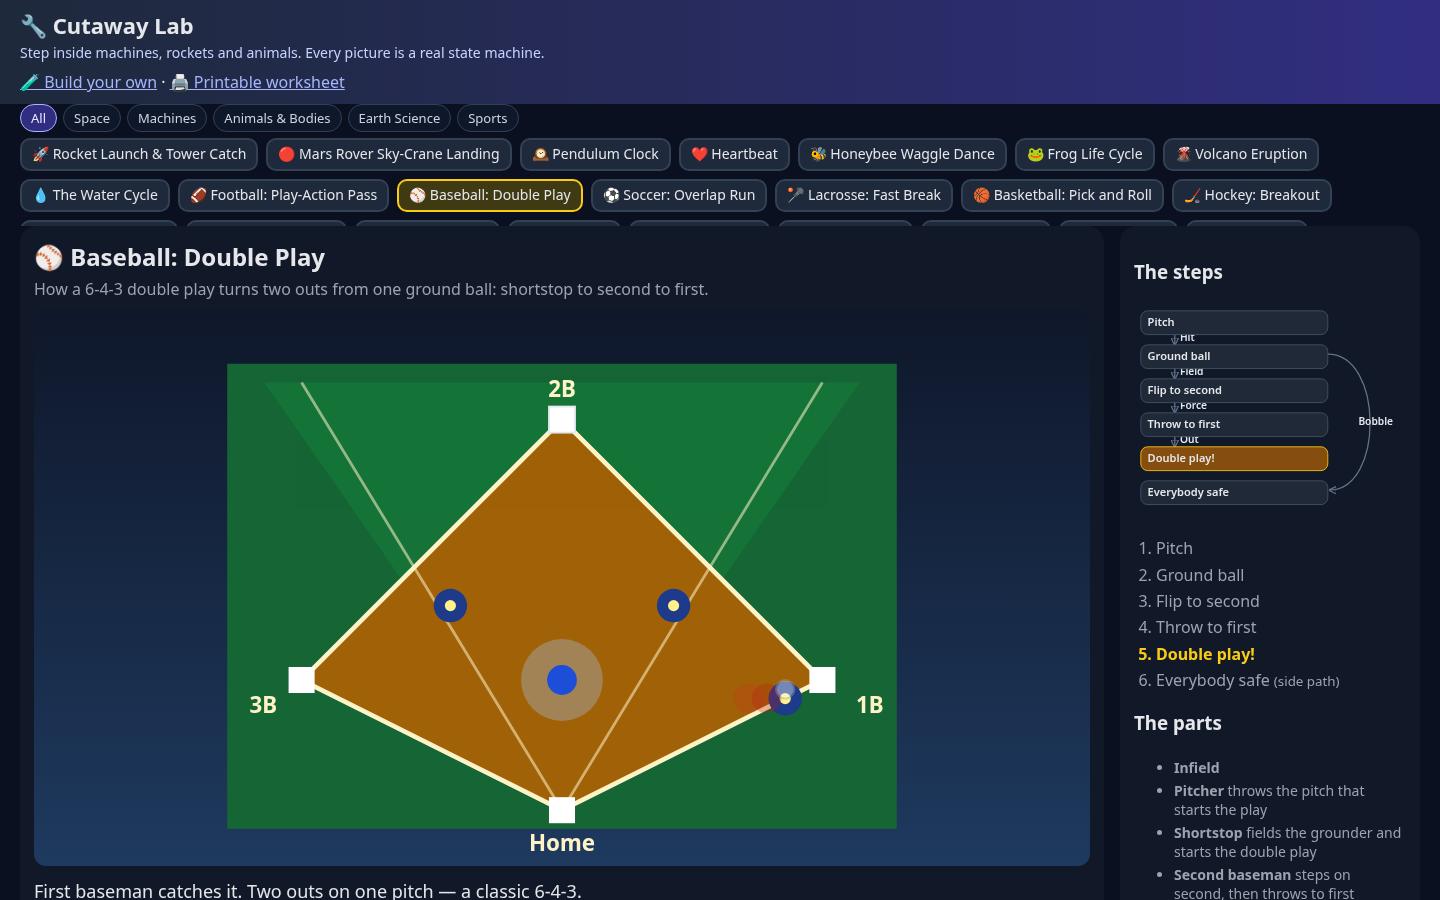
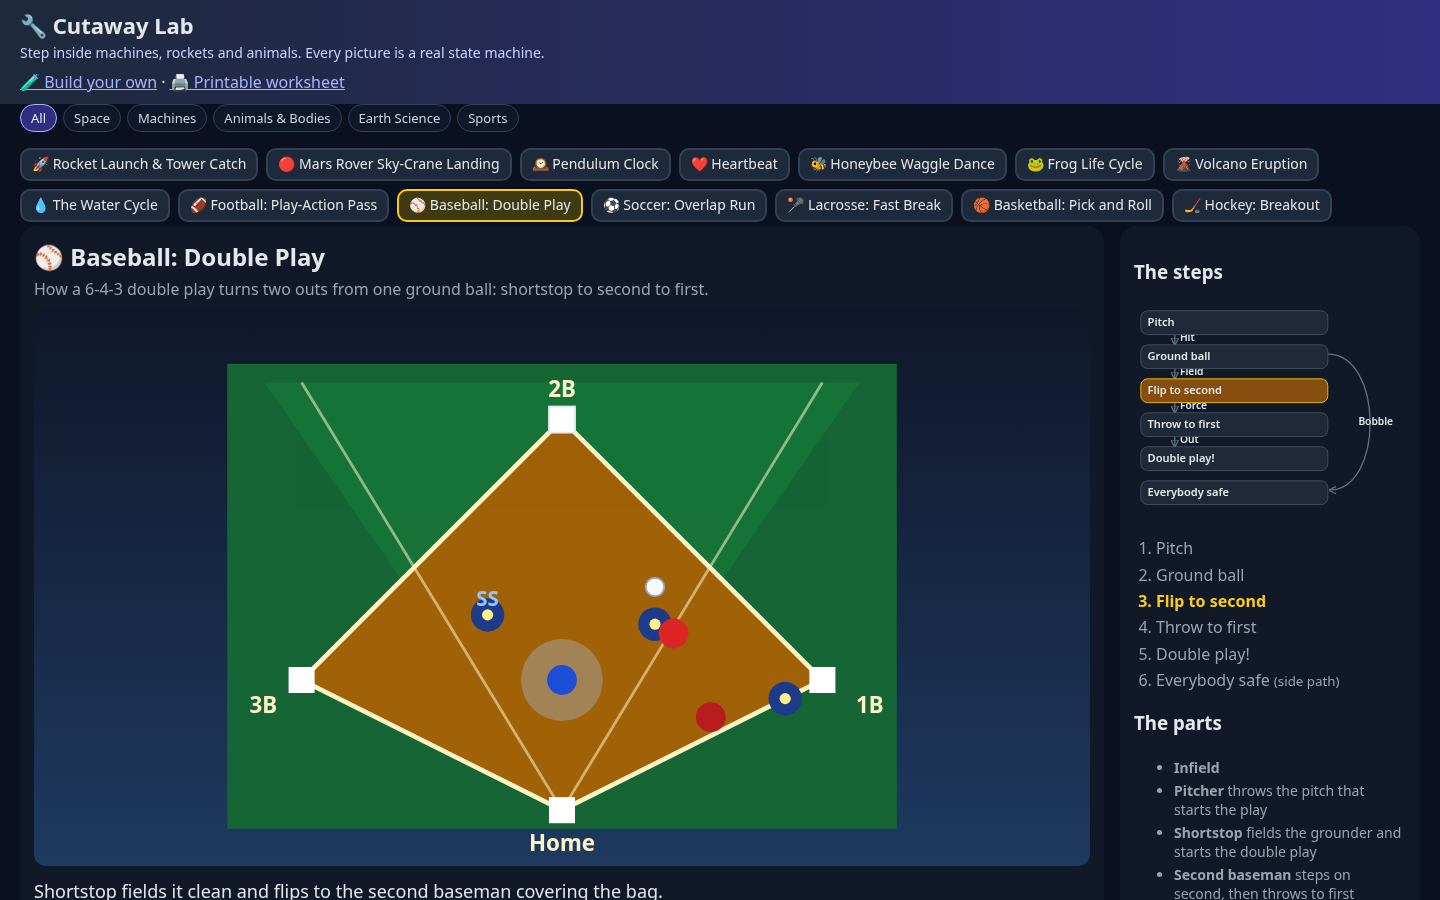
v1.0: football QB/RB/WR + baseball SS role captions

diff --git a/machines/football.js b/machines/football.js
@@ -7,6 +7,12 @@ export default {
     { id: 'oline', label: 'Offensive line', job: 'blocks so the quarterback has time', svg: '<g fill="#1e1b4b"><rect x="160" y="168" width="16" height="18" rx="2"/><rect x="180" y="168" width="16" height="18" rx="2"/><rect x="200" y="168" width="16" height="18" rx="2"/><rect x="220" y="168" width="16" height="18" rx="2"/><rect x="240" y="168" width="16" height="18" rx="2"/></g>' },
     { id: 'rb', label: 'Running back', job: 'fakes taking the ball to fool the defense', svg: '<circle cx="175" cy="200" r="10" fill="#4c1d95" stroke="#fbbf24" stroke-width="1.5"/><text x="175" y="204" text-anchor="middle" fill="#fbbf24" font-size="11" font-weight="700">22</text>', explode: [-40, 20] },
     { id: 'qb', label: 'Quarterback', job: 'fakes the handoff, then throws', svg: '<circle cx="200" cy="200" r="11" fill="#312e81" stroke="#fbbf24" stroke-width="2"/><text x="200" y="204" text-anchor="middle" fill="#fbbf24" font-size="12" font-weight="700">8</text>', explode: [0, 30] },
+    { id: 'lblQB', label: 'QB label',
+      svg: '<text x="200" y="175" text-anchor="middle" fill="#fde68a" font-size="11" font-weight="700">QB</text>' },
+    { id: 'lblRB', label: 'RB label',
+      svg: '<text x="170" y="210" text-anchor="middle" fill="#fde68a" font-size="11" font-weight="700">RB</text>' },
+    { id: 'lblWR', label: 'WR label',
+      svg: '<text x="300" y="120" text-anchor="middle" fill="#fde68a" font-size="11" font-weight="700">WR</text>' },
     { id: 'wr', label: 'Wide receiver', job: 'runs a deep route and catches the ball', svg: '<circle cx="320" cy="150" r="10" fill="#4c1d95" stroke="#fbbf24" stroke-width="1.5"/><text x="320" y="154" text-anchor="middle" fill="#fbbf24" font-size="11" font-weight="700">14</text>', explode: [40, -20] },
     { id: 'lb', label: 'Linebacker', job: 'steps up for the run fake, leaving space behind', svg: '<circle cx="230" cy="140" r="10" fill="#44403c" stroke="#a8a29e" stroke-width="1.5"/><text x="230" y="144" text-anchor="middle" fill="#e7e5e4" font-size="11" font-weight="700">54</text>' },
     { id: 'ball', label: 'Football', job: 'is snapped, faked, then thrown', svg: '<ellipse cx="200" cy="188" rx="8" ry="5" fill="#9a3412"/><path d="M194 188 H206" stroke="#fef3c7" stroke-width="1"/>', explode: [0, -40] },

diff --git a/machines/baseball.js b/machines/baseball.js
@@ -6,6 +6,8 @@ export default {
     { id: 'diamond', label: 'Infield', svg: '<rect x="20" y="30" width="360" height="250" fill="#166534"/><path d="M200 270 L40 40 L360 40 Z" fill="#15803d" opacity=".55"/><path d="M200 60 L340 200 L200 270 L60 200 Z" fill="#a16207"/><path d="M200 60 L340 200 L200 270 L60 200 Z" fill="none" stroke="#fef3c7" stroke-width="2.5"/><path d="M200 270 L60 40 M200 270 L340 40" stroke="#fef3c7" stroke-width="1.5" opacity=".55"/><circle cx="200" cy="200" r="22" fill="#a3a3a3" opacity=".5"/><circle cx="200" cy="200" r="6" fill="#78716c"/><rect x="193" y="53" width="14" height="14" fill="#fff" stroke="#e2e8f0"/><rect x="333" y="193" width="14" height="14" fill="#fff"/><rect x="193" y="263" width="14" height="14" fill="#fff"/><rect x="53" y="193" width="14" height="14" fill="#fff"/><text x="200" y="48" text-anchor="middle" fill="#fef3c7" font-size="12" font-weight="700">2B</text><text x="358" y="218" fill="#fef3c7" font-size="12" font-weight="700">1B</text><text x="200" y="292" text-anchor="middle" fill="#fef3c7" font-size="12" font-weight="700">Home</text><text x="32" y="218" fill="#fef3c7" font-size="12" font-weight="700">3B</text>' },
     { id: 'pitcher', label: 'Pitcher', job: 'throws the pitch that starts the play', svg: '<circle cx="200" cy="200" r="8" fill="#1d4ed8"/>' },
     { id: 'ss', label: 'Shortstop', job: 'fields the grounder and starts the double play', svg: '<circle cx="140" cy="160" r="9" fill="#1e3a8a"/><circle cx="140" cy="160" r="3" fill="#fef08a"/>', explode: [-40, -20] },
+    { id: 'lblSS', label: 'SS label',
+      svg: '<text x="160" y="160" text-anchor="middle" fill="#93c5fd" font-size="11" font-weight="700">SS</text>' },
     { id: '2b', label: 'Second baseman', job: 'steps on second, then throws to first', svg: '<circle cx="260" cy="160" r="9" fill="#1e3a8a"/><circle cx="260" cy="160" r="3" fill="#fef08a"/>', explode: [40, -20] },
     { id: '1b', label: 'First baseman', job: 'catches the throw for the second out', svg: '<circle cx="320" cy="210" r="9" fill="#1e3a8a"/><circle cx="320" cy="210" r="3" fill="#fef08a"/>', explode: [40, 20] },
     { id: 'batter', label: 'Batter-runner', job: 'hits the ball and runs toward first', svg: '<circle cx="210" cy="250" r="8" fill="#b91c1c"/>', explode: [0, 30] },
